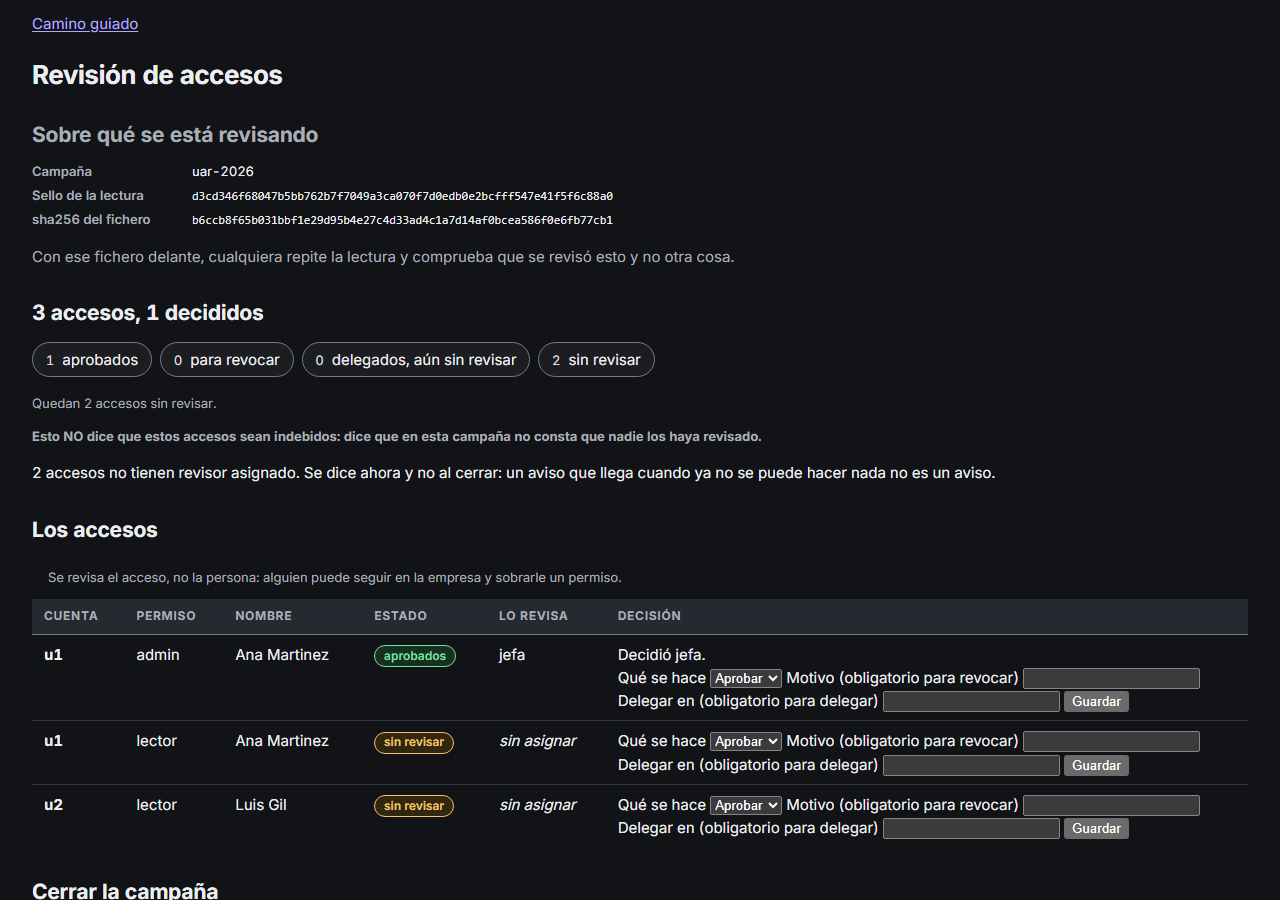
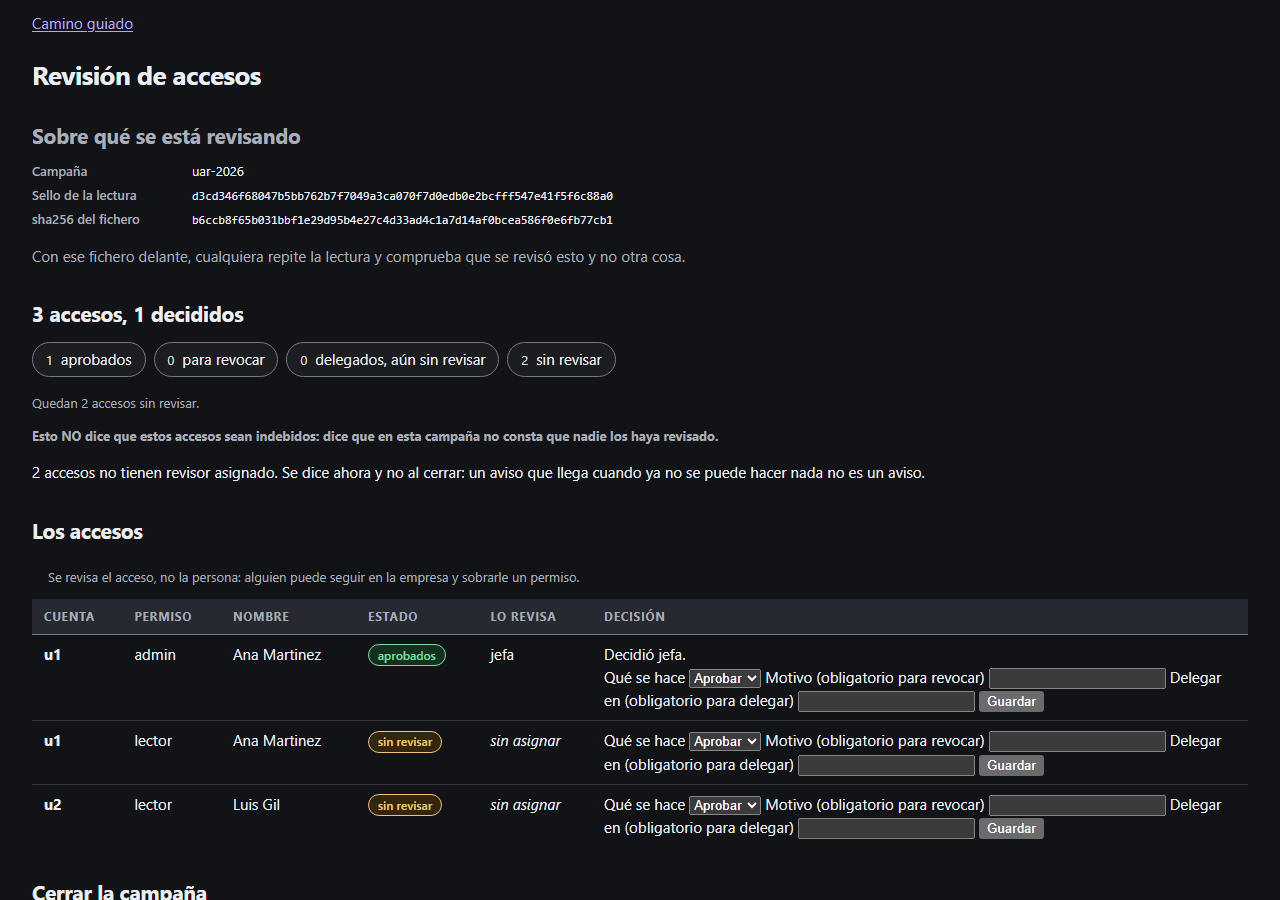
el dibujo del hueco vacio tambien se comparte, y la colision que eso abrio
El dibujo de los estados vacios (D-21: "estados vacios con dibujo ademas del
verbo") vivia dentro de las plantillas de superficies/pantallas, asi que el acta
tenia sus tres huecos en blanco: sin sesion, sin acta y referencia que no existe.
Se muda al armazon compartido y el acta lo usa en los tres. El VERBO no se toca
en ninguno: la frase que dice por que esta vacio y que se hace a continuacion es
la puerta D11-b y sigue donde estaba. Lo que el dibujo arregla es que el hueco
parezca hecho a proposito en vez de una pagina a medio cargar.

Y comparte por la misma razon que la barra: dos dibujos distintos para el mismo
estado se leen como dos estados distintos.

LA PUERTA QUE ESTO OBLIGO A ESCRIBIR, y salio de hacerlo mal primero. Al mover el
dibujo, durante un rato estuvo definido en los DOS arboles que esta superficie
carga, y nada se puso rojo: html/template no avisa de dos define con el mismo
nombre en un mismo arbol, se pisan en silencio y gana el ultimo que se parsee, o
sea el orden del glob. El sintoma no habria sido un error sino una pagina que
cambia de aspecto al renombrar un fichero.

TestNingunNombreDePlantillaSeDefineDosVeces recorre los dos arboles y lo caza.
Su control positivo comprueba que la tira del camino esta entre lo mirado: sin
eso el detector veria un solo arbol y la colision seria imposible por
construccion, que es la forma de dar verde sin vigilar nada.

Rojo demostrado volviendo a poner el define duplicado en base.html:
[…]

diff --git a/superficies/camino/armazon/armazon.html b/superficies/camino/armazon/armazon.html
@@ -90,3 +90,35 @@ inventada enlazaria a rutas donde quien monta no ha puesto ninguna pantalla.
 </nav>
 {{- end}}
 {{end}}
+
+{{- /*
+EL DIBUJO DE LOS ESTADOS VACIOS.
+
+Se SUMA al verbo, no lo sustituye. La puerta D11-b dice que una pantalla vacia
+tiene que decir por que lo esta y que se hace a continuacion, y esa frase sigue
+donde estaba: lo que se anade es que el hueco parezca hecho a proposito en vez de
+parecer una pagina a medio cargar, que es lo que un espacio en blanco parece
+siempre.
+
+Vive aqui, con el armazon, y no en las plantillas de una superficie, porque el
+hueco vacio sale en las CUATRO y el dibujo tiene que ser el mismo: dos dibujos
+distintos para el mismo estado se leen como dos estados distintos.
+
+Va con aria-hidden y sin titulo accesible A PROPOSITO: no aporta ni una palabra
+que no este escrita al lado, y un lector de pantalla que lo anunciara solo
+estaria haciendo perder el tiempo. Se dibuja con currentColor, asi que sirve en
+los dos temas sin declarar ni un color.
+
+Dibuja una hoja con tres renglones y un reloj todavia sin manecillas, que es
+exactamente el estado que representa: hay documento y no hay hora.
+*/ -}}
+{{define "dibujo-vacio"}}
+<svg class="dibujo" width="112" height="80" viewBox="0 0 112 80" aria-hidden="true" focusable="false">
+  <rect x="10.5" y="8.5" width="62" height="63" rx="5" fill="none"
+        stroke="currentColor" stroke-width="2"/>
+  <path d="M23 26 H60 M23 37 H60 M23 48 H46" fill="none" stroke="currentColor"
+        stroke-width="2" stroke-linecap="round"/>
+  <circle cx="82" cy="54" r="17" fill="none" stroke="currentColor" stroke-width="2"
+          stroke-dasharray="4 5"/>
+</svg>
+{{end}}

diff --git a/superficies/pantallas/plantillas/base.html b/superficies/pantallas/plantillas/base.html
@@ -179,34 +179,6 @@ articulo. La cita y el texto vienen del corpus: no pasan por el catalogo.
 </ul>
 {{end}}
 
-{{- /*
-EL DIBUJO DE LOS ESTADOS VACIOS.
-
-Se SUMA al verbo, no lo sustituye. La puerta D11-b dice que una pantalla vacia
-tiene que decir por que lo esta y que se hace a continuacion, y esa frase sigue
-donde estaba: lo que se anade es que el hueco parezca hecho a proposito en vez de
-parecer una pagina a medio cargar, que es lo que un espacio en blanco parece
-siempre.
-
-Va con aria-hidden y sin titulo accesible A PROPOSITO: no aporta ni una palabra
-que no este escrita al lado, y un lector de pantalla que lo anunciara solo estaria
-haciendo perder el tiempo. Se dibuja con currentColor, asi que sirve en los dos
-temas sin declarar ni un color.
-
-Dibuja una hoja con tres renglones y un reloj todavia sin manecillas, que es
-exactamente el estado que representa: hay documento y no hay hora.
-*/ -}}
-{{define "dibujo-vacio"}}
-<svg class="dibujo" width="112" height="80" viewBox="0 0 112 80" aria-hidden="true" focusable="false">
-  <rect x="10.5" y="8.5" width="62" height="63" rx="5" fill="none"
-        stroke="currentColor" stroke-width="2"/>
-  <path d="M23 26 H60 M23 37 H60 M23 48 H46" fill="none" stroke="currentColor"
-        stroke-width="2" stroke-linecap="round"/>
-  <circle cx="82" cy="54" r="17" fill="none" stroke="currentColor" stroke-width="2"
-          stroke-dasharray="4 5"/>
-</svg>
-{{end}}
-
 {{define "veredicto"}}
 <li class="veredicto e-{{.Estado}}">
   <p class="titulo"><code>{{.Fila.ID}}</code> <span class="paquete">{{.Fila.Paquete}}</span></p>

diff --git a/superficies/acta/plantillas/acta.html b/superficies/acta/plantillas/acta.html
@@ -78,6 +78,7 @@ quien difirio y con que motivo, quien decidio cada acceso y quien asistio: es un
 lista de quien hizo que dentro de la organizacion.
 */ -}}
 <section class="vacio">
+  {{template "dibujo-vacio" .}}
   <h2>{{t "acta.pantalla.sin_sesion.titulo"}}</h2>
   <p>{{t "acta.pantalla.sin_sesion.por_que"}}</p>
 </section>
@@ -88,12 +89,21 @@ dice que es un acta y que hace falta para tener una. Una pantalla vacia sin verb
 es un callejon.
 */ -}}
 <section class="vacio">
+  {{- /*
+  EL DIBUJO SE SUMA AL VERBO, no lo sustituye: las dos frases de abajo (que es un
+  acta y que hace falta para tener una) son la puerta D11-b y no se tocan. Lo que
+  el dibujo arregla es que el hueco parezca hecho a proposito en vez de una
+  pagina a medio cargar. Sale de la plantilla compartida, para que el mismo
+  estado se dibuje igual en las cuatro superficies.
+  */ -}}
+  {{template "dibujo-vacio" .}}
   <h2>{{t "acta.pantalla.sin_acta.titulo"}}</h2>
   <p>{{t "acta.pantalla.sin_acta.que_es"}}</p>
   <p>{{t "acta.pantalla.sin_acta.paso"}}</p>
 </section>
 {{else if .NoExiste}}
 <section class="vacio">
+  {{template "dibujo-vacio" .}}
   <h2>{{t "acta.pantalla.no_existe"}}</h2>
   <p><a href="{{.Base}}/">{{t "acta.pantalla.volver"}}</a></p>
 </section>

diff --git a/superficies/pantallas/armazon_test.go b/superficies/pantallas/armazon_test.go
@@ -402,3 +402,47 @@ func itoa(n int) string {
 }
 
 var _ = filepath.Base
+
+// NINGUN NOMBRE DE PLANTILLA SE DEFINE DOS VECES.
+//
+// Es el fallo que un motor de plantillas NO avisa, y por eso hace falta puerta:
+// dos {{define "x"}} en el mismo arbol se pisan en silencio y gana el ultimo que
+// se parsee, que depende del orden del glob. O sea que el sintoma no es un error
+// sino una pagina que cambia de aspecto al renombrar un fichero.
+//
+// Sale ahora porque esta superficie carga DOS arboles: el suyo y el armazon
+// compartido que declara superficies/camino. Mientras el marcado vivia entero
+// aqui, la colision no podia existir; desde que se comparte, el dibujo de los
+// estados vacios estuvo definido en los dos a la vez durante un rato, y nada se
+// puso rojo. Este detector es el que faltaba.
+func TestNingunNombreDePlantillaSeDefineDosVeces(t *testing.T) {
+	re := regexp.MustCompile(`\{\{-?\s*define "([^"]+)"`)
+	donde := map[string][]string{}
+	for _, f := range plantillasEnDisco(t) {
+		b, err := os.ReadFile(f)
+		if err != nil {
+			t.Fatal(err)
+		}
+		for _, m := range re.FindAllStringSubmatch(string(b), -1) {
+			donde[m[1]] = append(donde[m[1]], filepath.Base(f))
+		}
+	}
+	if len(donde) < 5 {
+		t.Fatalf("se han encontrado %d definiciones de plantilla y hay muchas mas: el "+
+			"detector esta mirando otra cosa", len(donde))
+	}
+	for nombre, ficheros := range donde {
+		if len(ficheros) > 1 {
+			t.Errorf("la plantilla %q se define en %v. En un mismo arbol una se come a la "+
+				"otra y el motor no dice nada: gana la ultima que se parsee, o sea el orden "+
+				"del glob", nombre, ficheros)
+		}
+	}
+	// CONTROL POSITIVO: el armazon compartido tiene que estar entre lo mirado.
+	// Sin el, este detector solo veria un arbol y la colision que existe para
+	// cazar seria imposible por construccion.
+	if _, hay := donde["tira-camino"]; !hay {
+		t.Error("entre lo mirado no esta la tira del camino, que vive en el armazon " +
+			"compartido: el detector no esta recorriendo los dos arboles")
+	}
+}

diff --git a/superficies/camino/armazon.go b/superficies/camino/armazon.go
@@ -214,7 +214,7 @@ func ClavesDelArmazon() []string {
 //
 // Existe para que la puerta de colision pueda compararlas contra las de cada
 // superficie sin leer el fichero a ojo.
-var nombresDelArmazon = []string{"armazon-marca", "tira-camino"}
+var nombresDelArmazon = []string{"armazon-marca", "tira-camino", "dibujo-vacio"}
 
 // NombresDelArmazon devuelve las plantillas que define el armazon compartido.
 func NombresDelArmazon() []string {
